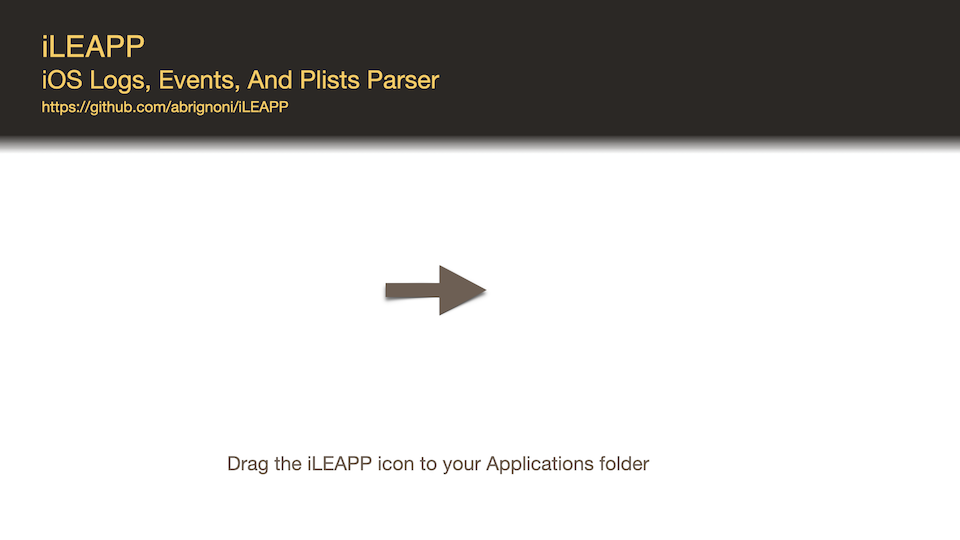
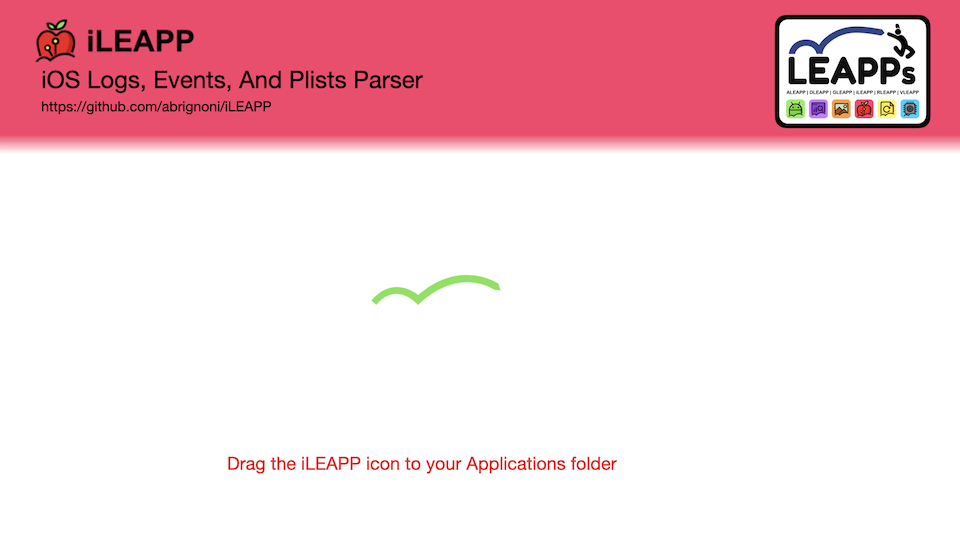
Give the disk image a new background, sharp on Retina screens
The background is the new iLEAPP artwork, and packaging/dmg_background@2x.png carries
it at 1920x1080. dmgbuild finds the @2x file by name and joins the two into one TIFF,
so the Finder shows the 960x540 image on a standard screen and the 1920x1080 one on a
Retina screen, where the 1x alone was scaled up and blurred. tiffutil refuses a pair
that is not exactly 1x and 2x, so a test checks the sizes before a build fails on it.

Changed region(s): [[0.0, 0.0, 1.0, 0.2963], [0.2188, 0.8296, 0.6875, 0.8889], [0.375, 0.4741, 0.5312, 0.5926]]

diff --git a/admin/test/scripts/test_packaging_build.py b/admin/test/scripts/test_packaging_build.py
@@ -477,6 +477,16 @@ class TestDiskImageLayout(unittest.TestCase):
         self.assertEqual(win_w, width)
         self.assertGreaterEqual(win_h, height)
 
+    def test_the_retina_background_is_exactly_twice_the_size(self):
+        """dmgbuild joins dmg_background@2x.png to the background with tiffutil
+        -cathidpicheck, which refuses a pair that is not exactly 1x and 2x, and the disk
+        image then fails to build."""
+        from PIL import Image  # pylint: disable=import-outside-toplevel
+        with Image.open(PACKAGING / 'dmg_background.png') as img:
+            width, height = img.size
+        with Image.open(PACKAGING / 'dmg_background@2x.png') as img:
+            self.assertEqual(img.size, (2 * width, 2 * height))
+
 
 class TestAppImage(unittest.TestCase):
 

diff --git a/.claude/rules/ileapp-build-and-release.md b/.claude/rules/ileapp-build-and-release.md
@@ -110,6 +110,11 @@ installs only on ARM64. macOS (Apple silicon and Intel): `.app` and `.dmg`. The 
 laid out by dmgbuild from `packaging/dmg_settings.py`: the app and an Applications link
 either side of the arrow on `packaging/dmg_background.png`. The settings place the icons
 for that 960x540 image, so a new background keeps its size and its arrow where it is.
+`dmg_background@2x.png` beside it, at exactly 1920x1080, is what a Retina screen shows:
+dmgbuild finds it by name and joins the two into one TIFF with `tiffutil
+-cathidpicheck`, which refuses a pair that is not exactly 1x and 2x. Without it the
+background is scaled up and blurred on every Retina Mac. Export both from the source;
+upscaling the 1x brings the blur back.
 Linux (x64 and ARM64): the folder build and an AppImage, made by appimagetool 1.9.1 with the
 type2 runtime 20251108, both pinned by digest in `build.py` and run with
 `APPIMAGE_EXTRACT_AND_RUN` so the build machine needs no FUSE. The finished AppImage is run
